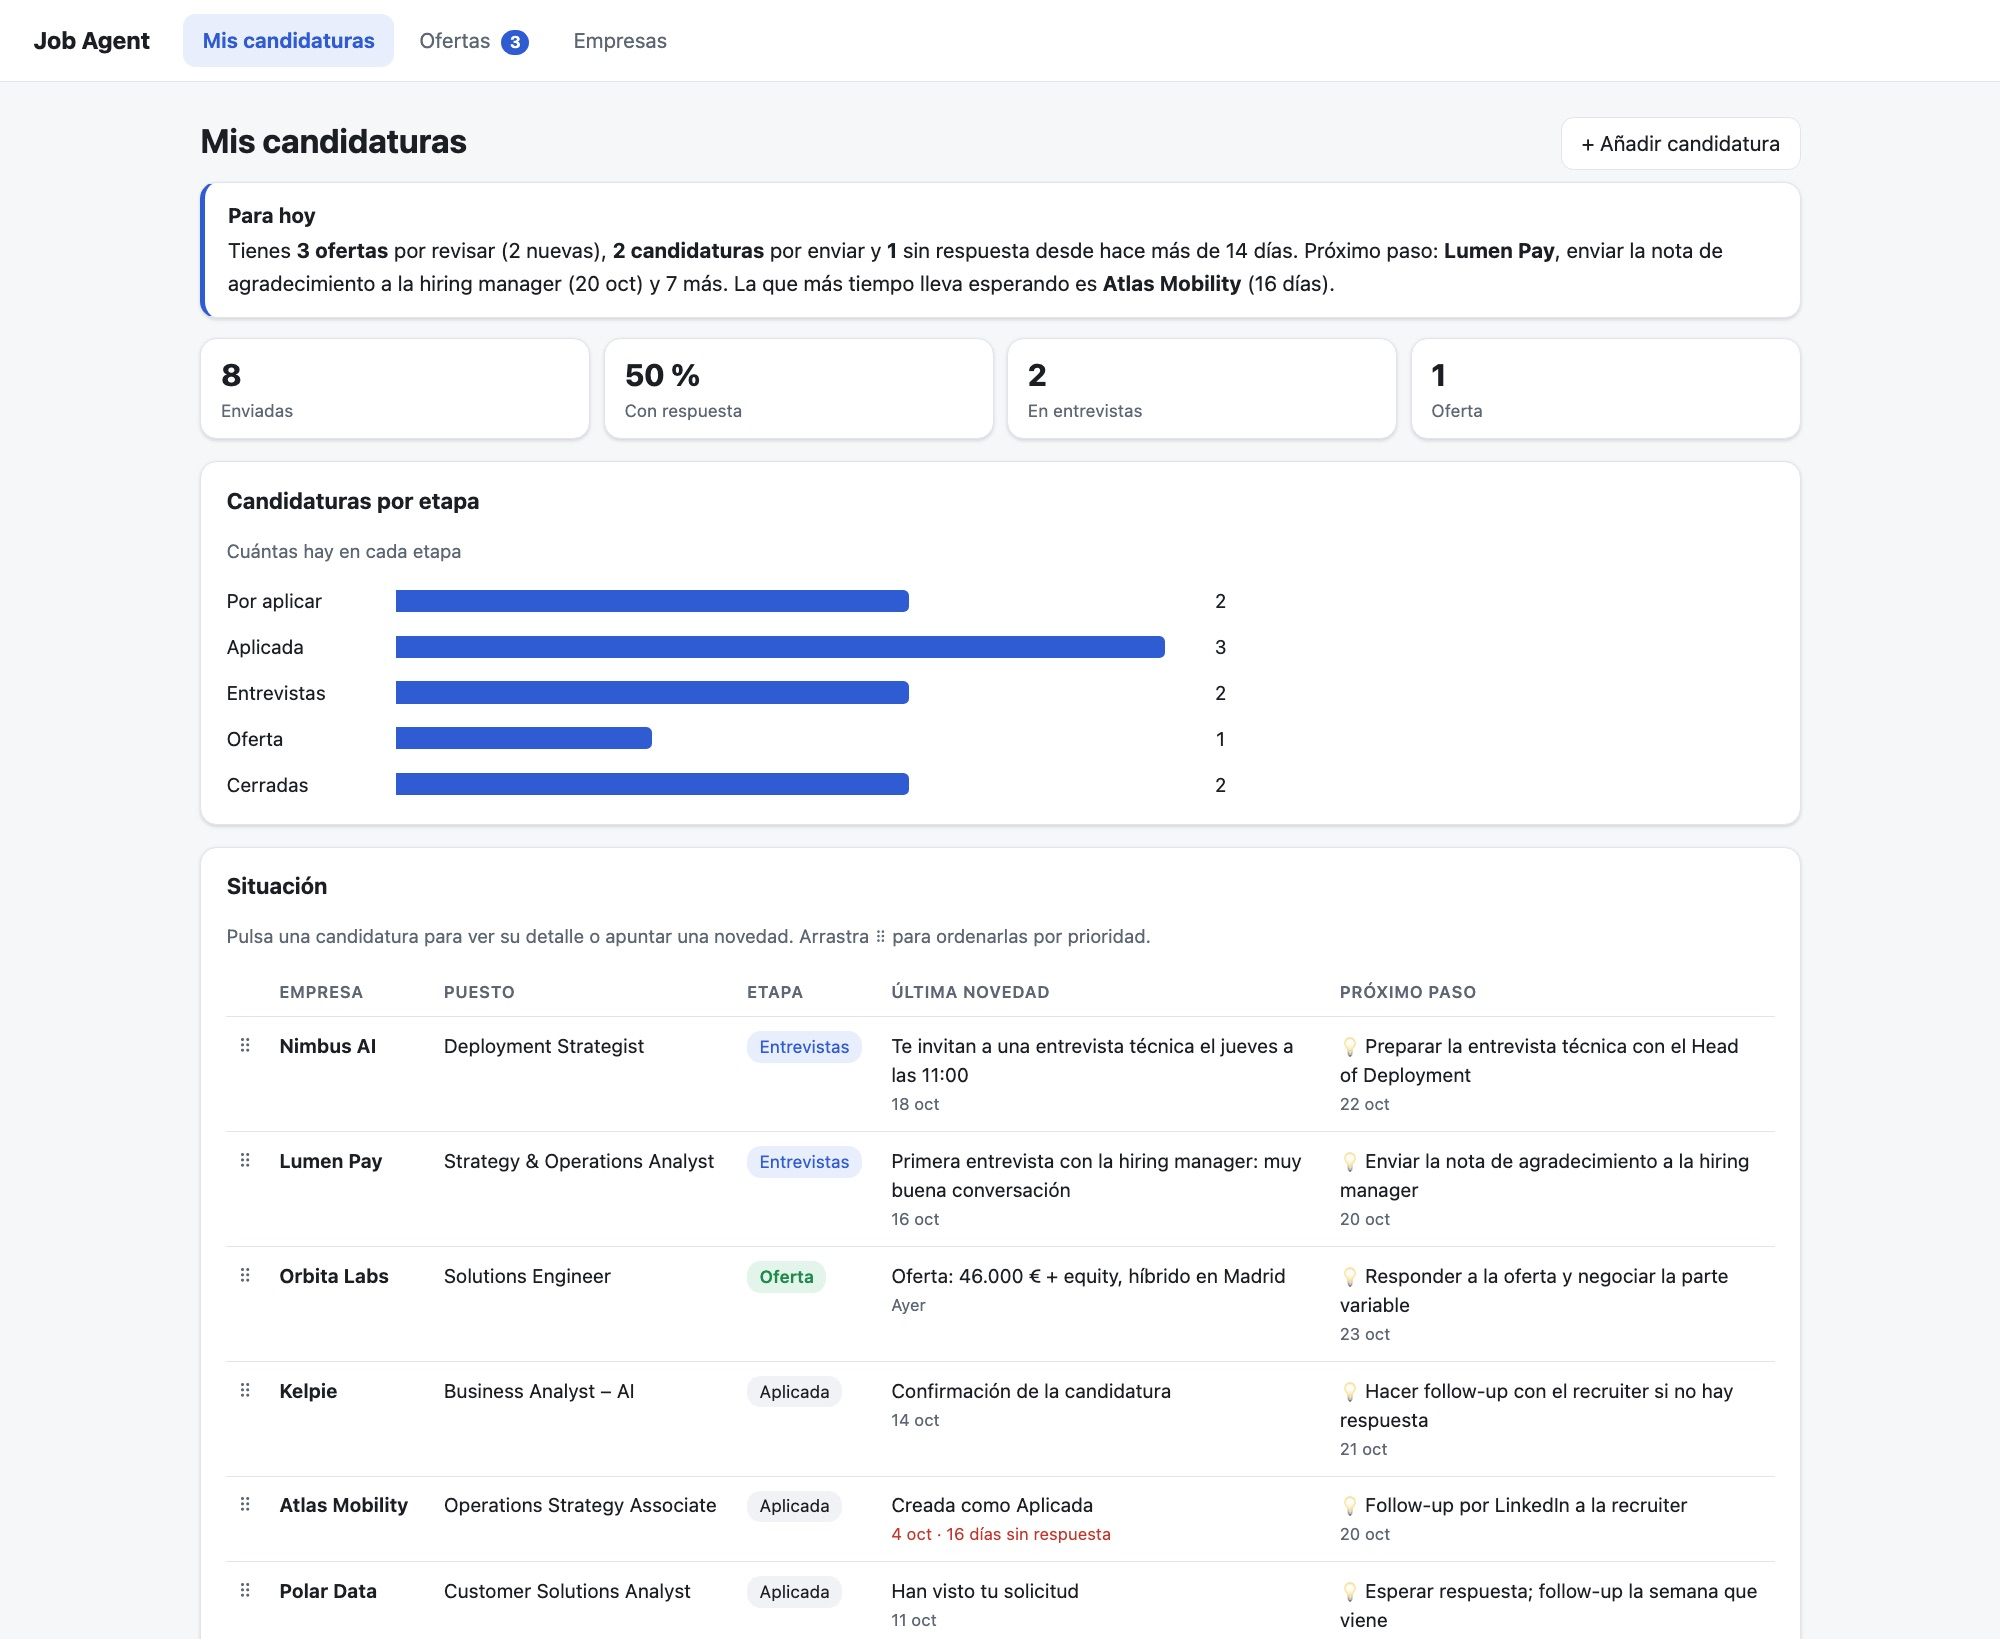
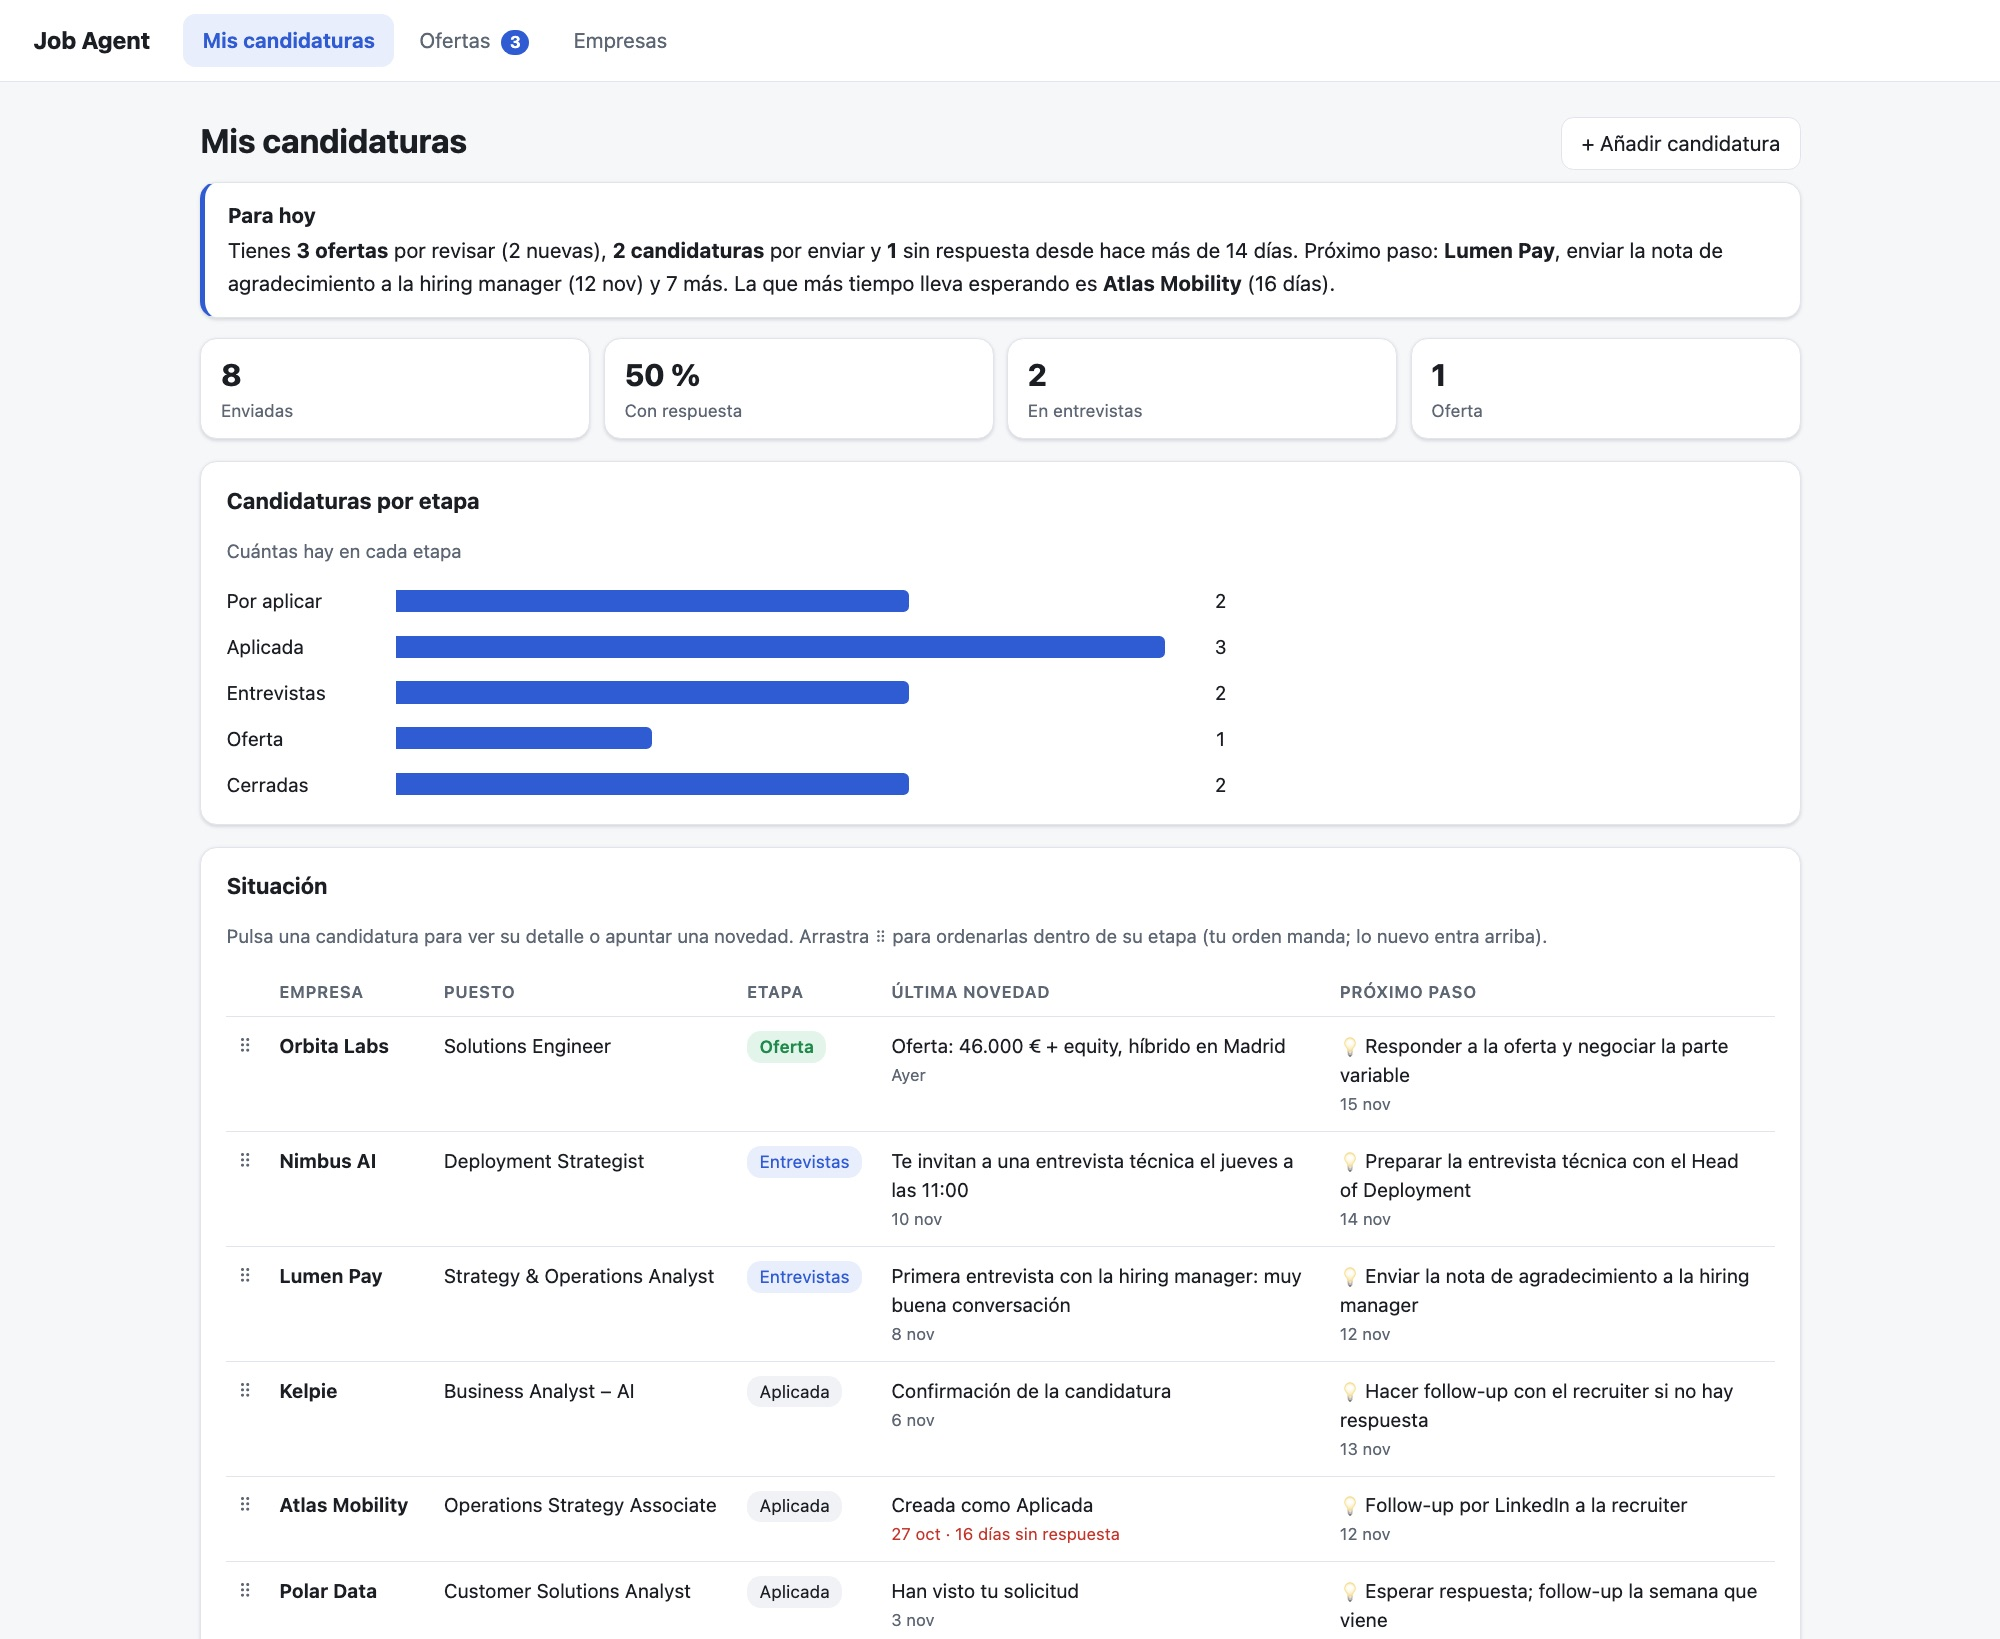
README: pestaña «Aplicadas», capturas nuevas y tamaño del código

diff --git a/README.md b/README.md
@@ -25,7 +25,8 @@ I've been turned down.
 - **Tailored CV:** one page per opening, never inventing anything, with notes on what they value, what
   changed and which gaps to prepare. It flags any figure that isn't in my CV. No link needed: a job description
   pasted in Slack is enough. Plus a general one-page CV in English or Spanish, with notes on what it prioritised.
-- **Tracking:** a dashboard with today's to-dos, applications by stage and an AI-suggested next step.
+- **Tracking:** a dashboard with today's to-dos, applications by stage and an AI-suggested next step. An
+  "Applied" tab keeps every role I've applied to with its card; missing cards are looked up on the web automatically.
 - **Company cards:** one card per company with an active application: what it does and for whom, type,
   size or funding, HQ, website and my roles there. Researched on the web automatically, once per company.
 - **Gmail:** checks the inbox every 2 minutes, detects interviews, rejections, offers and deadlines, and
@@ -39,7 +40,7 @@ any in-depth analysis. An email ≈ $0.0005, a chat message ≈ $0.002, a CV ≈
 keys never leave the machine; email and web content is treated as data, never as instructions).
 
 **Built with:** Python, HTML/CSS/JS, Claude API (Haiku and Sonnet) and Claude Code, Gmail API (OAuth), Slack API (Socket
-Mode). ~5,400 lines in 17 modules. I designed the product, flows, rules and limits, built it with Claude
+Mode). ~5,600 lines in 18 modules. I designed the product, flows, rules and limits, built it with Claude
 Code as a copilot and validated it in daily, real use.
 
 ---
@@ -97,10 +98,12 @@ Tres pestañas:
    **🔍 Buscar ofertas** (descarga ofertas de ~145 empresas y Claude
    filtra por título y analiza a fondo hasta 15 nuevas; 5-10 min; ver *Coste*) y **⚙ Preferencias** (puestos, dónde, salario; y
    sectores, qué valoras, qué evitas y qué descartas, que escribes con tus palabras y se convierten
-   en etiquetas fijas). Debajo, *Resultados de búsqueda* y *Te interesa*: cada oferta dice **qué
+   en etiquetas fijas). Debajo, *Resultados de búsqueda*, *Te interesa* y *Aplicadas*: cada oferta dice **qué
    harías, por qué encaja y por qué no encaja**; pulsas **👍 Me interesa** o **👎 No me interesa** y
    una ventana te pregunta el porqué (opcional). *Te interesa* son las que te interesan y aún no has
-   enviado; las que no te interesan desaparecen.
+   enviado; las que no te interesan desaparecen. *Aplicadas* es el registro de cada puesto al que has aplicado
+   (siga abierto o no) con su ficha, etapa, fecha, el CV enviado y un buscador; si falta la ficha, la busca sola en la
+   web una vez y, si no la encuentra, puedes pegar la descripción.
 3. **Empresas** — una ficha por cada empresa en la que tienes una candidatura por aplicar, aplicada, en
    entrevistas o con oferta, de la más avanzada a la menos: qué hace y para quién, tipo (startup, scale-up,
    big tech…), tamaño o financiación, sede, web y tus puestos allí con su etapa. Se investigan solas en la web
